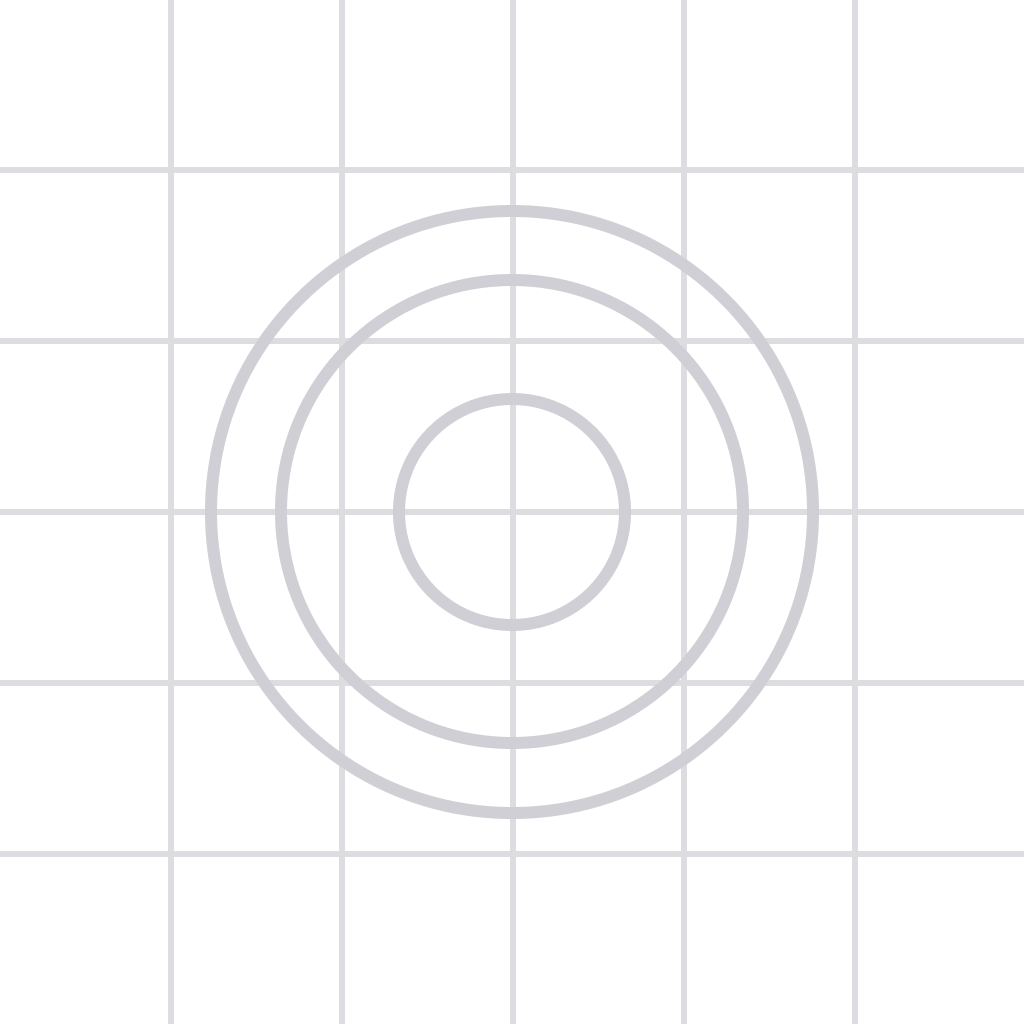
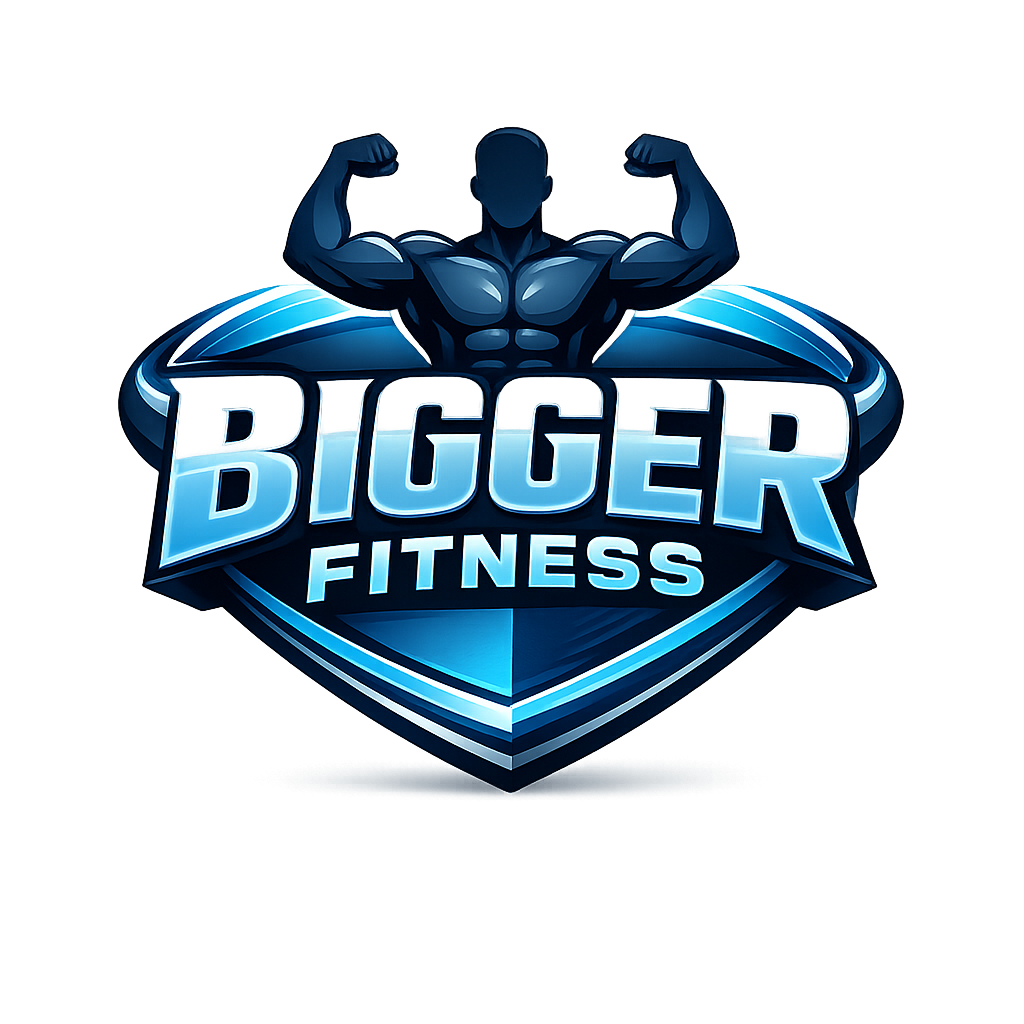
fix(ios): sync widget extension version with main app via custom plugin
Apple rejects IPAs whose extension CFBundleVersion does not match the
parent app. @user/apple-targets does not auto-inherit, and EAS bumps
the parent buildNumber remotely, so a custom config plugin reads the
resolved main app values during prebuild and writes them into
targets/widget/Info.plist.

diff --git a/plugins/withWidgetVersionSync.js b/plugins/withWidgetVersionSync.js
@@ -1,0 +1,58 @@
+/**
+ * Sync the Widget Extension's CFBundleShortVersionString and CFBundleVersion
+ * with the main app's values at prebuild time. Apple rejects IPAs whose
+ * extensions have a version mismatch with the host app.
+ *
+ * @bacons/apple-targets does NOT auto-inherit these from the parent app, and
+ * EAS bumps the parent's buildNumber remotely, so we have to write them into
+ * the widget's Info.plist via a dangerous mod that runs at every prebuild.
+ */
+const { withDangerousMod, withInfoPlist } = require('expo/config-plugins');
+const fs = require('fs');
+const path = require('path');
+const plist = require('@expo/plist').default;
+
+const WIDGET_TARGET_NAME = 'widget';
+
+const withWidgetVersionSync = (config) => {
+  // 1) Capture the main app's resolved version/buildNumber via withInfoPlist
+  let mainVersion = config.version || '1.0.0';
+  let mainBuildNumber = (config.ios && config.ios.buildNumber) || '1';
+
+  config = withInfoPlist(config, (cfg) => {
+    mainVersion = cfg.modResults.CFBundleShortVersionString || mainVersion;
+    mainBuildNumber = cfg.modResults.CFBundleVersion || mainBuildNumber;
+    return cfg;
+  });
+
+  // 2) After prebuild, rewrite the widget's Info.plist with the same values
+  config = withDangerousMod(config, [
+    'ios',
+    async (cfg) => {
+      const projectRoot = cfg.modRequest.projectRoot;
+      const widgetInfoPlistPath = path.join(
+        projectRoot,
+        'targets',
+        WIDGET_TARGET_NAME,
+        'Info.plist'
+      );
+
+      if (!fs.existsSync(widgetInfoPlistPath)) {
+        return cfg;
+      }
+
+      const raw = fs.readFileSync(widgetInfoPlistPath, 'utf8');
+      const data = plist.parse(raw) || {};
+
+      data.CFBundleShortVersionString = mainVersion;
+      data.CFBundleVersion = String(mainBuildNumber);
+
+      fs.writeFileSync(widgetInfoPlistPath, plist.build(data));
+      return cfg;
+    },
+  ]);
+
+  return config;
+};
+
+module.exports = withWidgetVersionSync;